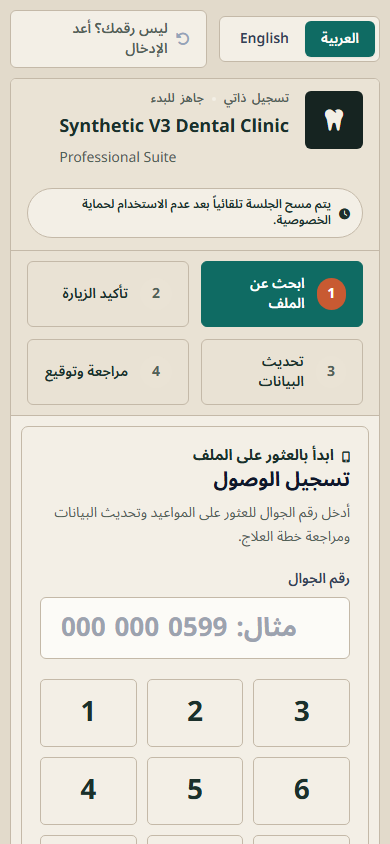
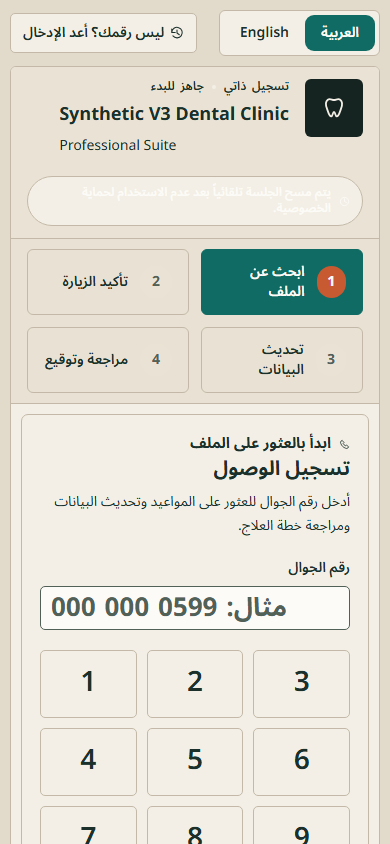
docs(ui): deliver V3 component comparison gallery and final evidence

diff --git a/docs/UI_V3_ACCEPTANCE.md b/docs/UI_V3_ACCEPTANCE.md
@@ -1,6 +1,6 @@
 # V3 architectural redesign acceptance
 
-2026-10-24. Protected release: `89352fd20e0d5166e81f631cb743bead1f596a68`. Runtime: `8a720c3593c961c0926ad258d0a3d3c9838359aa`; subsequent evidence commits do not change runtime. Draft PR #21 awaits Owner visual acceptance and finished-candidate independent review. No deployment requested.
+2026-10-24. Protected release: `89352fd20e0d5166e81f631cb743bead1f596a68`. Runtime: `7bb13d30517cd3e941646f7402c5442ed2707917`; subsequent evidence commits do not change runtime. Draft PR #21 awaits Owner visual acceptance and finished-candidate independent review. No deployment requested.
 
 ## Actual visual evidence
 
@@ -80,3 +80,20 @@ Support CSS consolidates repeated inline styles; secondary CSS pruned. New compo
 ## Preserved / unsupported
 
 No invented prototype statistics, medical inference, checkout, supplier finance or dynamic resources. Corrections, scheduling, WhatsApp, checkout, contact history and derivatives retain OFF state. Legal documents, signatures and native odontogram remain stable. Localization exceptions above are explicit. Production and reference kit untouched. Full captures/private credentials remain outside source; curated screenshots are synthetic only. Ready for visual acceptance and independent review, not deployment.
+
+
+## Final component-purity pass
+
+Runtime freeze: `7bb13d30517cd3e941646f7402c5442ed2707917`. V3-native button/input/select/checkbox/switch/table/dialog tokens replace legacy colour utilities in active source, including generated controls. A local 1.8px outline SVG-mask catalog follows the supplied prototype geometry; retained `fa-*` names are functional selector aliases, not Font Awesome screen glyphs. Original third-party assets/notices remain preserved for protected print surfaces. No new runtime dependency.
+
+`warm-secondary-layout.css` compatibility declarations fall from 252 to 58 `!important` uses; remaining declarations preserve visibility/position/order/plugin mechanics. Pure visual declarations were replaced at source. Source CSS totals fall from 454,034 to 441,079 bytes including the new icon/component assets; Tailwind falls from 243,084 to 185,199 bytes. These are uncompressed repository sizes, not network or latency measurements. Existing paired query/latency evidence above remains applicable as a bounded backend observation; no new global speed claim.
+
+Actual visual inspection corrected source gradients, raw white surfaces, excessive radii/shadows, Select2's dynamically injected blue theme, native-chart outer dialog chrome, destructive variants, hidden-state precedence and icon contrast. A discovered finance widget startup race was fixed by moving the existing CSRF bootstrap unchanged before dependent page scripts and deferring the finance script. The affected 12 EN/AR finance/drawer captures pass without errors; 42 HTTP/security checks and SaaS guardrails pass afterward.
+
+The offline Owner gallery is outside the repository: `C:/Users/bassa/AppData/Local/Temp/denta-ui-v3-20261023/v3-owner-review/index.html`. Double-click it in Explorer; no server required. It includes all 13 original reference images, matching actual CI4 workspaces, EN/AR desktop/mobile selectors, and real component/form/dialog/drawer states. Identity-board content remains reference-only. The full archive stays local; this directory contains only curated synthetic previews.
+
+Remaining intentional exceptions: native odontogram geometry, clinical condition colours/internal labels, signed snapshots and legal print documents are protected; browser-native date/validation chrome follows the operating system. Kiosk signing preview is captured from an existing eligible synthetic contract, but signature submission is disabled by existing entitlement and no consent is fabricated. Disabled prototype features stay OFF. Existing dynamic technical labels may remain English. These exceptions are not a blanket claim that every historical component is visually accepted.
+
+Independent AGY source review timed out without a final verdict; it is not approval. The previous GitHub COMMENTED review applies to `6612d175`, not this new source. A fresh exact-head decision is requested on the finished draft; Owner visual acceptance remains outstanding. No merge/deployment is authorized.
+
+Final gallery confirmation: **176 actual captures, 13 reference views, zero accepted overflow or recorded page errors**. Offline gallery opens with 13 comparison sections, no broken images and no script errors. Curated components: [income drawer](ui-v3/v3-drawer-income-en-1586.png), [AR autocomplete](ui-v3/v3-select2-open-ar-390.png), [native chart dialog](ui-v3/v3-native-chart-dialog-ar-390.png), [kiosk contract review](ui-v3/v3-kiosk-sign-review-ar-390.png). Full gallery stays outside source.

diff --git a/DESIGN.md b/DESIGN.md
@@ -14,3 +14,6 @@ See [acceptance record](docs/UI_V3_ACCEPTANCE.md) for evidence, curated screensh
 
 
 Architectural components: `v3-flow-forms.css`, scoped `v3-support-views.css`, `v3-control-plane.css`, touch-first `v3-clinical-kiosk.css` and `v3-inventory-forms.css`. `v3-chart-chrome.css` styles outer screen chrome only, never SVG/snapshots. Screen-only links protect print output. Replace obsolete markup instead of stacking specificity overrides.
+
+
+The authoritative small-control layer is `v3-components.css`; `v3-icons.css` supplies the locally bundled reference-style outline set. Preserve fa-name event hooks while rendering one outline identity. Small copy uses approved Ink where Muted fails contrast against warm backgrounds. Select2 injected CSS uses the same tokens; native hidden/responsive classes retain precedence.
